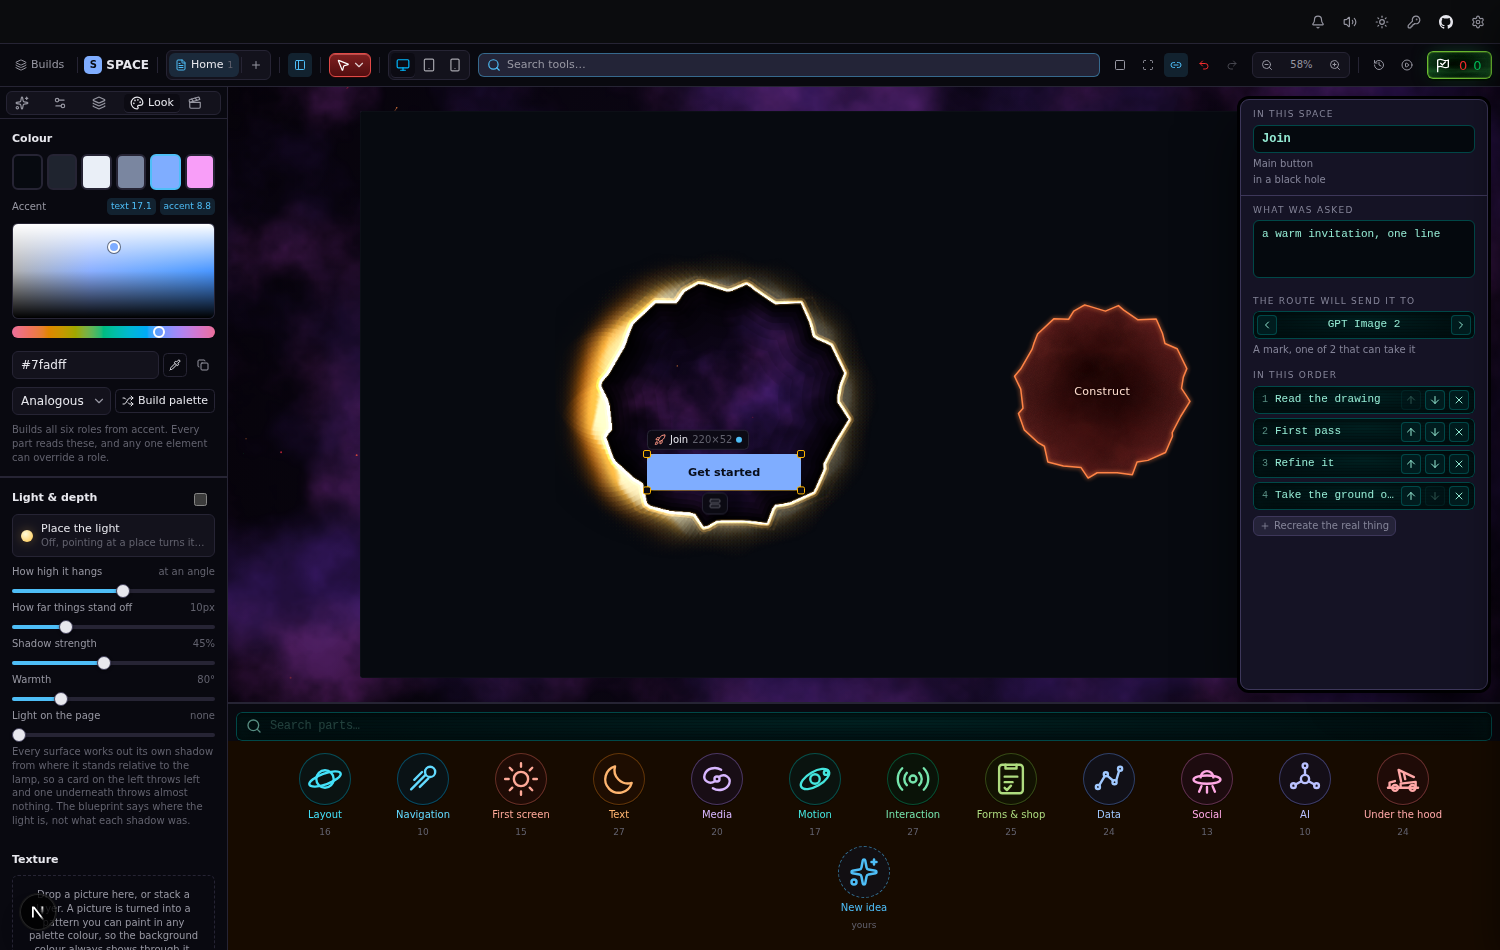
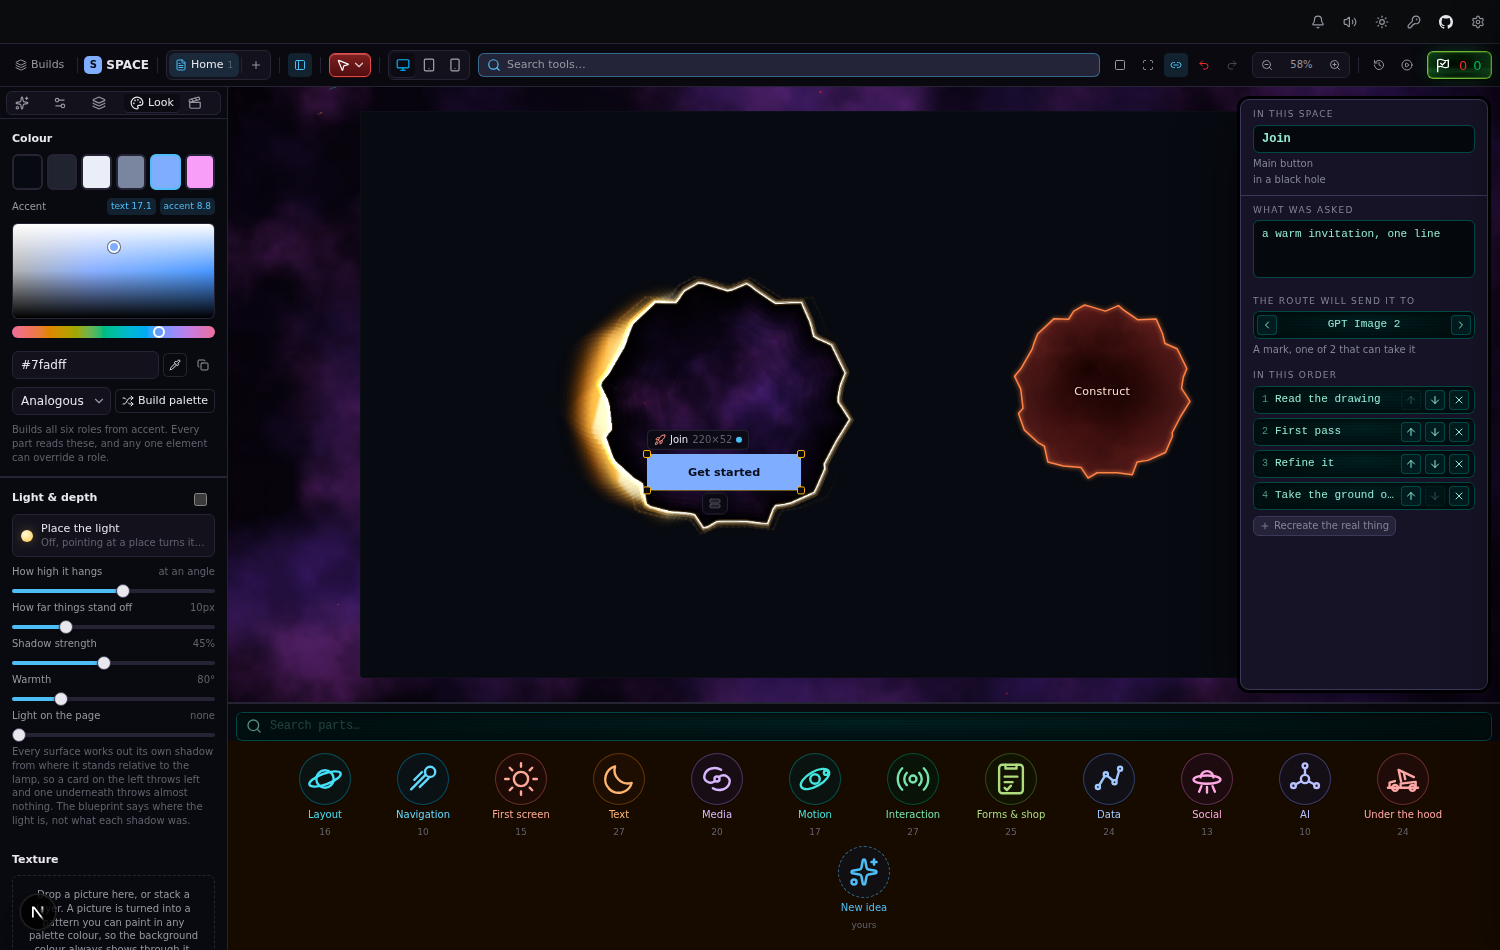
The light outside a hole is a crescent, not a halo
J read the first pictures as a glow round a plate, which is exactly what
the drawing disc's edge stopped being. Three things made it one, and the
disc's own numbers are kept in all three.

The photon ring was the worst of it: three strokes up to ten pixels wide,
centred on the line and clipped back to half, which came to the disc's
own widths on paper and to a five-pixel amber band on the screen,
unbeamed, all the way round. They are the disc's own 2.4, 1.6 and 1.4
now, laid outside the line at 4, 2 and half a pixel out the way the disc
lays them outside its rim. The ring stays bright the whole way round on
purpose: it is light that went round the hole, so it is there on the
going side too, and a hair is not a halo.

The crescent is now thin where it is dim, not only dim. The disc's 0.42
falloff and fourth-power beaming are unchanged, but that falloff is
quoted as a share of a 320px plate, and over a shorter line the same
share closes into a ring. The reach is beamed too: the coming side keeps
the whole of it, the going side gets a fifth (`DIM_REACH`), and the light
narrows round to nothing the way it dims round to nothing.

The bloom was a cloud over the whole shape at 1.25 of the radius; it is
0.95 and tight to the coming side, because an overexposed edge is where
the edge is.

The panel stays above the phone companion: cutting its foot off is worse.
28 of 28 board checks and 38 of 38 pure checks still hold, and the shots
are retaken.
[…]

Changed region(s): [[0.368, 0.2747, 0.5827, 0.58]]

diff --git a/src/features/studio/blackHole.ts b/src/features/studio/blackHole.ts
@@ -217,6 +217,17 @@ export function paintHorizonShadow(c: CanvasRenderingContext2D, size: number) {
 /** How many pieces a path is cut into for the per-piece beaming. */
 const PIECES = 160;
 
+/**
+ * How far the light reaches on the receding side, as a share of the coming
+ * side's reach.
+ *
+ * The one number here that is not the disc's, and it exists because the
+ * disc's own falloff is quoted as a share of a 320px plate: over a shorter
+ * line the same share closes into a ring. A fifth is what leaves the going
+ * side present but hugging the line, so what you see is a crescent.
+ */
+const DIM_REACH = 0.2;
+
 /** Evenly spaced points round a closed path, by arc length. */
 function resample(path: SketchPoint[], n: number): SketchPoint[] {
   const pts = path.length > 1 && Math.hypot(path[0]![0] - path[path.length - 1]![0], path[0]![1] - path[path.length - 1]![1]) < 1e-6 ? path.slice(0, -1) : path;
@@ -332,24 +343,38 @@ export function paintHoleAlong(c: CanvasRenderingContext2D, o: HoleAlongOptions)
      normal, laid down rather than added so the pieces never comb. */
   c.globalCompositeOperation = "source-over";
   {
+    /*
+     * A crescent is thin where it is dim, not only dim.
+     *
+     * The disc's own falloff is 0.42 of the radius and its own beaming is
+     * the fourth power of the facing, and both of those are kept. What was
+     * missing is that on the disc the light reaches 67px out of a 320px
+     * plate, so the receding side's four per cent is a smear nobody sees;
+     * over a shorter line the same four per cent at the same width closed
+     * up into a ring, which is a halo — a glow round a plate, the thing
+     * this stopped being. So the reach itself is beamed: the coming side
+     * keeps the whole 0.42 and the going side gets `DIM_REACH` of it, and
+     * the light narrows round to nothing the way it dims round to nothing.
+     */
     const reach = R * 0.42;
-    c.lineWidth = reach * 2;
     for (let i = 0; i < pts.length; i++) {
       const a = pts[i]!, b = pts[(i + 1) % pts.length]!;
       const mx = (a[0] + b[0]) / 2, my = (a[1] + b[1]) / 2;
       const th = angleOf([mx, my]);
       const face = Math.max(0, Math.cos(th - beam));
       const lit = Math.pow(face, 4) * 0.96 + 0.04;
+      const far = reach * (DIM_REACH + (1 - DIM_REACH) * Math.pow(face, 2));
       // Outward is away from the middle of the area.
       const d = Math.hypot(mx - cx, my - cy) || 1;
       const nx = (mx - cx) / d, ny = (my - cy) / d;
-      const g = c.createLinearGradient(mx, my, mx + nx * reach, my + ny * reach);
+      const g = c.createLinearGradient(mx, my, mx + nx * far, my + ny * far);
       g.addColorStop(0, HOT(0.5));
       g.addColorStop(0.06, WARM(0.34));
       g.addColorStop(0.22, WARM(0.13));
       g.addColorStop(0.5, FAR(0.05));
       g.addColorStop(1, "oklch(0 0 0 / 0)");
       c.strokeStyle = g;
+      c.lineWidth = far * 2;
       c.globalAlpha = lit * breathe;
       c.beginPath();
       c.moveTo(a[0], a[1]);
@@ -364,7 +389,9 @@ export function paintHoleAlong(c: CanvasRenderingContext2D, o: HoleAlongOptions)
   {
     const bx = cx + Math.cos(beam) * R * 0.5;
     const by = cy + Math.sin(beam) * R * 0.5;
-    const g = c.createRadialGradient(bx, by, R * 0.2, bx, by, R * 1.25);
+    // Tight to the coming side rather than a cloud over the whole shape:
+    // the bloom is an overexposed edge, and an edge is where it is.
+    const g = c.createRadialGradient(bx, by, R * 0.2, bx, by, R * 0.95);
     g.addColorStop(0, WARM(0.12 * breathe));
     g.addColorStop(0.45, WARM(0.05 * breathe));
     g.addColorStop(1, "oklch(0 0 0 / 0)");
@@ -373,12 +400,21 @@ export function paintHoleAlong(c: CanvasRenderingContext2D, o: HoleAlongOptions)
   }
 
   /* The photon ring, and its hair of bloom: widest first, so the thin white
-     line lands on top. Everything here is centred on the line and clipped
-     to its outer half. */
-  for (const [style, width] of [[WARM(0.22), 10.4], [HOT(0.5), 5.6], ["oklch(1 0.02 90 / 1)", 2.8]] as [string, number][]) {
+     line lands on top.
+
+     The disc's own widths — 2.4, 1.6 and 1.4 at 4, 2 and half a pixel out —
+     laid *outside* the line the way the disc lays them outside its rim,
+     rather than centred on it at twice the width and clipped back to half.
+     Centred and doubled came to the same number outside on paper and did
+     not on the screen: an amber band five pixels wide, unbeamed, all the
+     way round, which is most of what read as a halo. The ring itself stays
+     bright the whole way round on purpose. It is light that went round the
+     hole, so it is there on the going side too; it is a hair, and a hair is
+     not a halo. */
+  for (const [style, width, out] of [[WARM(0.22), 2.4, 4], [HOT(0.5), 1.6, 2], ["oklch(1 0.02 90 / 1)", 1.4, 0.6]] as [string, number, number][]) {
     c.strokeStyle = style;
     c.lineWidth = width * hair;
-    trace(c, pts);
+    trace(c, pts.map(([x, y]) => [cx + (x - cx) * (1 + (out * hair) / R), cy + (y - cy) * (1 + (out * hair) / R)] as SketchPoint));
     c.stroke();
   }
   c.restore();
